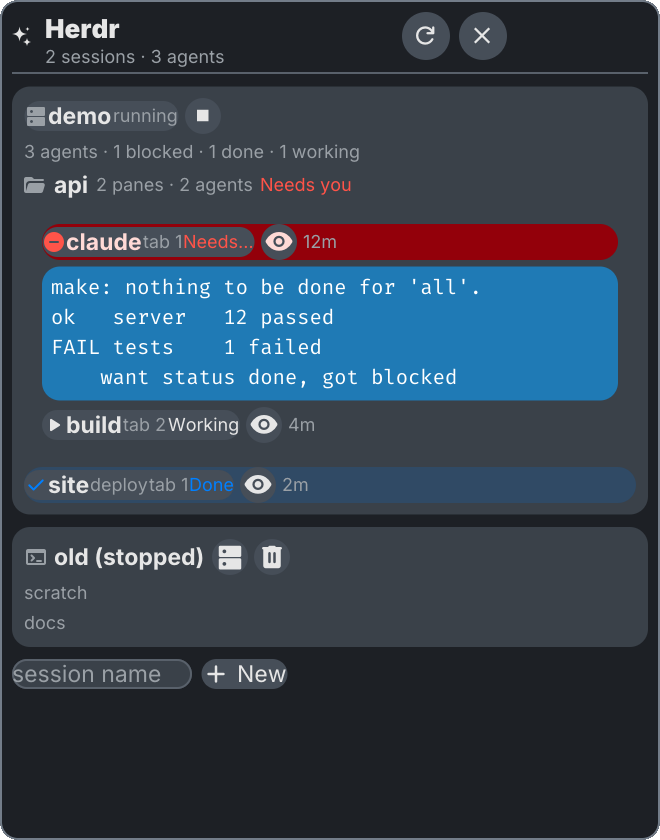
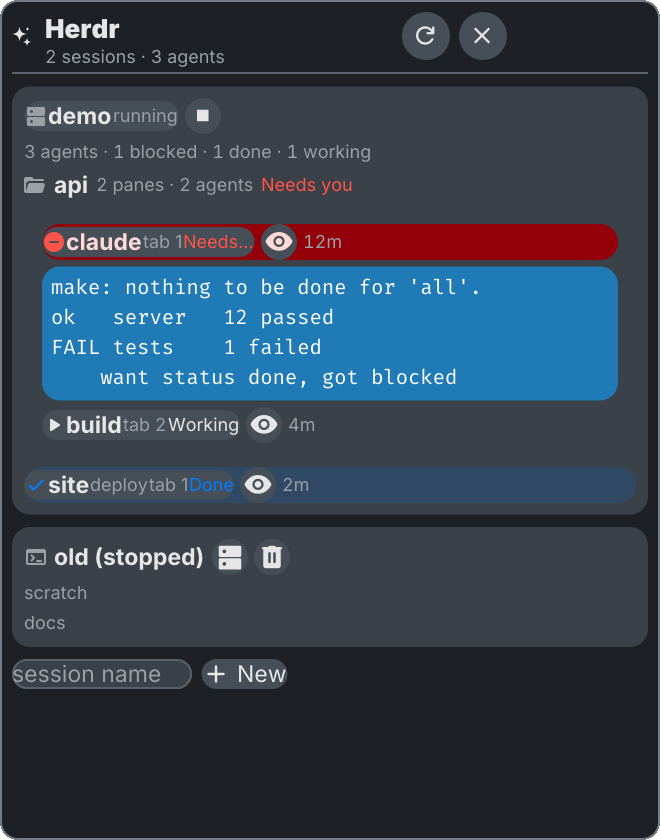
feat(herdr): panel polish, stale labelling and delete guard
Design audit fixes within spec-pinned strings:
- herdr-missing card gains a recovery path caption
- stale sessions labelled in error tone (spec: kept and labelled);
  a dead socket now also drives the error-tone bar glyph
- destructive confirm uses the delete glyph, not check
- tooltips carry the full target name for truncated rows
- tabular figures on every count caption (poll jitter)
- action-error card stays last per spec; summary strings stay
  the spec-pinned form so bar tooltip and panel header agree
- confirm-delete refuses a session that vanished mid-flow

Captures regenerated.

diff --git a/plugins/herdr/render_panel.go b/plugins/herdr/render_panel.go
@@ -115,7 +115,7 @@ func panelHeader(m *Model, st PanelState, width int) *v1.Node {
 		{Kind: v1.KindIcon, Icon: barIconName, IconSize: panelIconSize},
 		{Kind: v1.KindColumn, Width: infoWidth, Children: []*v1.Node{
 			{Kind: v1.KindText, Text: "Herdr", Bold: true, Size: "title"},
-			{Kind: v1.KindText, Text: summary(m), Size: "caption", Tone: v1.ToneSubtle},
+			{Kind: v1.KindText, Text: summary(m), Size: "caption", Tone: v1.ToneSubtle, Tabular: true},
 		}},
 		{Kind: v1.KindButton, ID: "refresh", Icon: "refresh", Width: 32, Height: 32,
 			Name: "Refresh", Role: "button", Tooltip: "Refresh sessions",
@@ -145,7 +145,14 @@ func summary(m *Model) string {
 func messageCards(m *Model) []*v1.Node {
 	var out []*v1.Node
 	if m.HerdrMissing {
-		out = append(out, messageCard("herdr not found on PATH", v1.ToneError, "error-container", ""))
+		out = append(out, &v1.Node{Kind: v1.KindColumn, Fill: "error-container", Shape: "small", Padding: 8, Gap: 4,
+			Children: []*v1.Node{
+				{Kind: v1.KindRow, Gap: 4, Children: []*v1.Node{
+					{Kind: v1.KindIcon, Icon: "do_not_disturb_on", IconSize: panelIconSize, Tone: v1.ToneError},
+					{Kind: v1.KindText, Text: "herdr not found on PATH", Bold: true, Tone: v1.ToneError},
+				}},
+				{Kind: v1.KindText, Text: "Install herdr or fix PATH, then refresh", Size: "caption", Tone: v1.ToneSubtle},
+			}})
 	} else if len(m.Sessions) == 0 {
 		out = append(out, &v1.Node{Kind: v1.KindColumn, Fill: "container", Shape: "small", Padding: 8, Gap: 4,
 			Children: []*v1.Node{
@@ -182,7 +189,7 @@ func sessionCard(s SessionRow, st PanelState, width int) *v1.Node {
 	if s.Running {
 		card.Children = append(card.Children, runningHeader(s))
 		if c := countsCaption(s.Counts); c != "" {
-			card.Children = append(card.Children, &v1.Node{Kind: v1.KindText, Text: c, Size: "caption", Tone: v1.ToneSubtle})
+			card.Children = append(card.Children, &v1.Node{Kind: v1.KindText, Text: c, Size: "caption", Tone: v1.ToneSubtle, Tabular: true})
 		}
 		budget := maxPanesPerSession
 		for _, ws := range s.Workspaces {
@@ -202,12 +209,17 @@ func sessionCard(s SessionRow, st PanelState, width int) *v1.Node {
 }
 
 func runningHeader(s SessionRow) *v1.Node {
+	// Spec: a socket that stopped answering keeps its last data, labelled stale.
+	state, stateTone := "running", v1.ToneSubtle
+	if s.Stale {
+		state, stateTone = "stale", v1.ToneError
+	}
 	attach := &v1.Node{Kind: v1.KindButton, ID: "attach:" + s.Name, Name: "Attach to " + s.Name,
-		Role: "button", Tooltip: "Attach in terminal", Events: []v1.EventKind{v1.EventActivate},
+		Role: "button", Tooltip: "Attach " + s.Name + " in terminal", Events: []v1.EventKind{v1.EventActivate},
 		Children: []*v1.Node{
 			{Kind: v1.KindIcon, Icon: "dns", IconSize: panelIconSize, Tone: v1.ToneSubtle},
 			{Kind: v1.KindText, Text: s.Name, Bold: true, MaxWidth: 120},
-			{Kind: v1.KindText, Text: "running", Size: "caption", Tone: v1.ToneSubtle},
+			{Kind: v1.KindText, Text: state, Size: "caption", Tone: stateTone},
 		}}
 	return &v1.Node{Kind: v1.KindRow, Gap: 4, Children: []*v1.Node{
 		attach,
@@ -222,13 +234,13 @@ func stoppedHeader(s SessionRow, st PanelState) *v1.Node {
 		{Kind: v1.KindIcon, Icon: "terminal", IconSize: panelIconSize, Tone: v1.ToneSubtle},
 		{Kind: v1.KindText, Text: s.Name + " (stopped)", Bold: true, MaxWidth: 140},
 		{Kind: v1.KindButton, ID: "attach:" + s.Name, Icon: "dns", Width: 24, Height: 24,
-			Name: "Attach to " + s.Name, Role: "button", Tooltip: "Attach in terminal",
+			Name: "Attach to " + s.Name, Role: "button", Tooltip: "Attach " + s.Name + " in terminal",
 			Events: []v1.EventKind{v1.EventActivate}},
 	}}
 	if st.ConfirmDelete == s.Name {
 		row.Children = append(row.Children,
-			&v1.Node{Kind: v1.KindButton, ID: "confirmdelete", Icon: "check", Width: 24, Height: 24,
-				Tone: v1.ToneError, Name: "Confirm delete " + s.Name, Role: "button", Tooltip: "Delete this session",
+			&v1.Node{Kind: v1.KindButton, ID: "confirmdelete", Icon: "delete", Width: 24, Height: 24,
+				Tone: v1.ToneError, Name: "Confirm delete " + s.Name, Role: "button", Tooltip: "Confirm delete " + s.Name,
 				Events: []v1.EventKind{v1.EventActivate}},
 			&v1.Node{Kind: v1.KindButton, ID: "canceldelete", Icon: "close", Width: 24, Height: 24,
 				Name: "Cancel delete", Role: "button", Tooltip: "Keep this session",
@@ -290,7 +302,7 @@ func workspaceHeader(ws WorkspaceRow) *v1.Node {
 	return &v1.Node{Kind: v1.KindRow, Gap: 4, Children: []*v1.Node{
 		{Kind: v1.KindIcon, Icon: "folder-open", IconSize: panelIconSize, Tone: v1.ToneSubtle},
 		{Kind: v1.KindText, Text: ws.Label, Bold: true},
-		{Kind: v1.KindText, Text: fmt.Sprintf("%d panes · %d agents", len(ws.Panes), agents), Size: "caption", Tone: v1.ToneSubtle},
+		{Kind: v1.KindText, Text: fmt.Sprintf("%d panes · %d agents", len(ws.Panes), agents), Size: "caption", Tone: v1.ToneSubtle, Tabular: true},
 		{Kind: v1.KindText, Text: StatusLabel(nil, ws.Status), Size: "caption", Tone: statusTone(ws.Status)},
 	}}
 }
@@ -307,7 +319,7 @@ func paneRow(p PaneRow, sess, primary string, withTitle bool, st PanelState) *v1
 	}
 
 	button := &v1.Node{Kind: v1.KindButton, ID: "focus:" + sess + ":" + p.PaneID, Name: p.Title,
-		Role: "button", Tooltip: "Focus agent", Events: []v1.EventKind{v1.EventActivate},
+		Role: "button", Tooltip: "Focus " + p.Title, Events: []v1.EventKind{v1.EventActivate},
 		Children: []*v1.Node{
 			{Kind: v1.KindIcon, Icon: statusGlyph(p.Status), IconSize: panelIconSize, Tone: statusTone(p.Status)},
 			{Kind: v1.KindText, Text: primary, Bold: true, MaxWidth: 72},
@@ -330,7 +342,7 @@ func paneRow(p PaneRow, sess, primary string, withTitle bool, st PanelState) *v1
 			Events: []v1.EventKind{v1.EventActivate}})
 	}
 	if p.SinceLabel != "" {
-		row.Children = append(row.Children, &v1.Node{Kind: v1.KindText, Text: p.SinceLabel, Size: "caption", Tone: v1.ToneSubtle})
+		row.Children = append(row.Children, &v1.Node{Kind: v1.KindText, Text: p.SinceLabel, Size: "caption", Tone: v1.ToneSubtle, Tabular: true})
 	}
 	// time-in-state is pre-computed by the model (PaneRow.SinceLabel); the
 	// renderer stays pure (no clock).
@@ -414,7 +426,7 @@ func statusTone(s Status) v1.Tone {
 }
 
 func moreText(n int, noun string) *v1.Node {
-	return &v1.Node{Kind: v1.KindText, Text: fmt.Sprintf("… %d more %s", n, noun), Size: "caption", Tone: v1.ToneSubtle}
+	return &v1.Node{Kind: v1.KindText, Text: fmt.Sprintf("… %d more %s", n, noun), Size: "caption", Tone: v1.ToneSubtle, Tabular: true}
 }
 
 // sortedSessions orders default first, then name, without mutating the model.

diff --git a/plugins/herdr/render_bar.go b/plugins/herdr/render_bar.go
@@ -45,14 +45,18 @@ func worstTone(m *Model) v1.Tone {
 		return v1.ToneError
 	}
 	var blocked, done, working int
+	stale := false
 	for i := range m.Sessions {
 		c := m.Sessions[i].Counts
 		blocked += c.Blocked
 		done += c.Done
 		working += c.Working
+		if m.Sessions[i].Running && m.Sessions[i].Stale {
+			stale = true
+		}
 	}
 	switch {
-	case blocked > 0:
+	case stale || blocked > 0:
 		return v1.ToneError
 	case done > 0:
 		return v1.ToneAccent
@@ -135,22 +139,22 @@ func TooltipTree(m *Model, ws WidgetSettings) *v1.Node {
 		working += c.Working
 	}
 	col.Children = append(col.Children, &v1.Node{
-		Kind: v1.KindText, Text: fmt.Sprintf("%d sessions · %d agents", n, agents),
+		Kind: v1.KindText, Text: fmt.Sprintf("%d sessions · %d agents", n, agents), Tabular: true,
 	})
 	if blocked > 0 {
-		col.Children = append(col.Children, &v1.Node{Kind: v1.KindText, Text: fmt.Sprintf("%d blocked", blocked), Tone: v1.ToneError})
+		col.Children = append(col.Children, &v1.Node{Kind: v1.KindText, Text: fmt.Sprintf("%d blocked", blocked), Tone: v1.ToneError, Tabular: true})
 	}
 	if done > 0 {
-		col.Children = append(col.Children, &v1.Node{Kind: v1.KindText, Text: fmt.Sprintf("%d done", done), Tone: v1.ToneAccent})
+		col.Children = append(col.Children, &v1.Node{Kind: v1.KindText, Text: fmt.Sprintf("%d done", done), Tone: v1.ToneAccent, Tabular: true})
 	}
 	if working > 0 {
-		col.Children = append(col.Children, &v1.Node{Kind: v1.KindText, Text: fmt.Sprintf("%d working", working)})
+		col.Children = append(col.Children, &v1.Node{Kind: v1.KindText, Text: fmt.Sprintf("%d working", working), Tabular: true})
 	}
 	return col
 }
 
-// tooltipText is the bar control's bounded hover hint, mirroring the first
-// line of TooltipTree without duplicating the detail lines.
+// tooltipText is the bar control's bounded hover hint; it mirrors the panel
+// header summary so both surfaces lead with the same subject.
 func tooltipText(m *Model) string {
 	if m == nil {
 		return "Herdr"
@@ -158,10 +162,5 @@ func tooltipText(m *Model) string {
 	if m.HerdrMissing {
 		return "herdr not found"
 	}
-	n, agents := 0, 0
-	for i := range m.Sessions {
-		n++
-		agents += m.Sessions[i].Counts.Agents
-	}
-	return fmt.Sprintf("%d sessions · %d agents", n, agents)
+	return summary(m)
 }

diff --git a/plugins/herdr/render_panel_test.go b/plugins/herdr/render_panel_test.go
@@ -2,6 +2,7 @@ package herdr
 
 import (
 	"fmt"
+	"strings"
 	"testing"
 
 	v1 "github.com/Nomadcxx/sysc-shell/plugin/v1"
@@ -153,7 +154,7 @@ func TestPanelPeekAndActions(t *testing.T) {
 		t.Fatal("stopped session must not offer stop")
 	}
 
-	// Action error lands in an error-container card at the bottom.
+	// Action error lands in an error-container card at the bottom (spec).
 	errTree := PanelTree(panelStates()["actionerror"], PanelWidth, PanelHeight)
 	found := false
 	walk(errTree, func(n *v1.Node) {
@@ -302,4 +303,46 @@ func strings_ContainsSpace(s string) bool {
 		}
 	}
 	return false
+}
+
+func TestPanelStaleLabelAndErrorPlacement(t *testing.T) {
+	t.Parallel()
+	stale := runningSess("alpha", Counts{Sessions: 1, Agents: 1},
+		onePaneWS("work", pane("p1", "shell", StatusIdle)))
+	stale.Stale = true
+	tree := PanelTree(PanelState{Model: modelWith(stale), Settings: DefaultSettings()}, PanelWidth, PanelHeight)
+	checkLint(t, v1.ViewPanel, tree, PanelWidth, PanelHeight)
+	labeled := false
+	walk(tree, func(n *v1.Node) {
+		if n.Kind == v1.KindText && n.Text == "stale" && n.Tone == v1.ToneError {
+			labeled = true
+		}
+	})
+	if !labeled {
+		t.Fatal("stale session not labelled in error tone")
+	}
+	if got := worstTone(modelWith(stale)); got != v1.ToneError {
+		t.Fatalf("worstTone(stale) = %v, want error tone", got)
+	}
+
+	// Spec: the action-error card sits at the bottom, after the session cards.
+	errTree := PanelTree(panelStates()["actionerror"], PanelWidth, PanelHeight)
+	var texts []string
+	walk(errTree, func(n *v1.Node) {
+		if n.Kind == v1.KindText {
+			texts = append(texts, n.Text)
+		}
+	})
+	errIdx, sessIdx := -1, -1
+	for i, tx := range texts {
+		if sessIdx < 0 && tx == "alpha" {
+			sessIdx = i
+		}
+		if errIdx < 0 && strings.Contains(tx, "stop failed") {
+			errIdx = i
+		}
+	}
+	if errIdx < 0 || sessIdx < 0 || errIdx < sessIdx {
+		t.Fatalf("action error at %d must follow session name at %d in %q", errIdx, sessIdx, texts)
+	}
 }

diff --git a/cmd/sysc-plugin-herdr/main.go b/cmd/sysc-plugin-herdr/main.go
@@ -348,6 +348,20 @@ func (p *plugin) confirmDeleteNow() {
 	if name == "" {
 		return
 	}
+	found := false
+	for _, s := range p.service.Model().Sessions {
+		if s.Name == name {
+			found = true
+			break
+		}
+	}
+	if !found {
+		p.confirmDelete = ""
+		p.actionErr = "session no longer exists: " + name
+		p.service.Refresh()
+		p.snapshotAll()
+		return
+	}
 	p.actionErr = ""
 	p.runAction(stopTimeout, func(ctx context.Context) error {
 		return p.actions.Delete(ctx, name)
